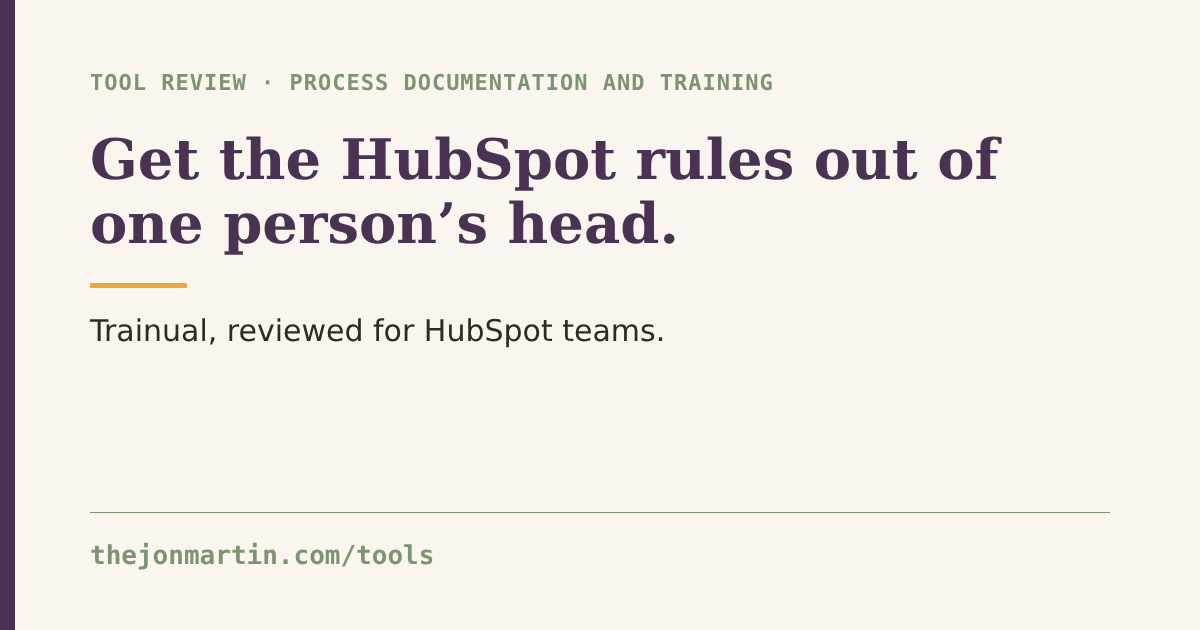
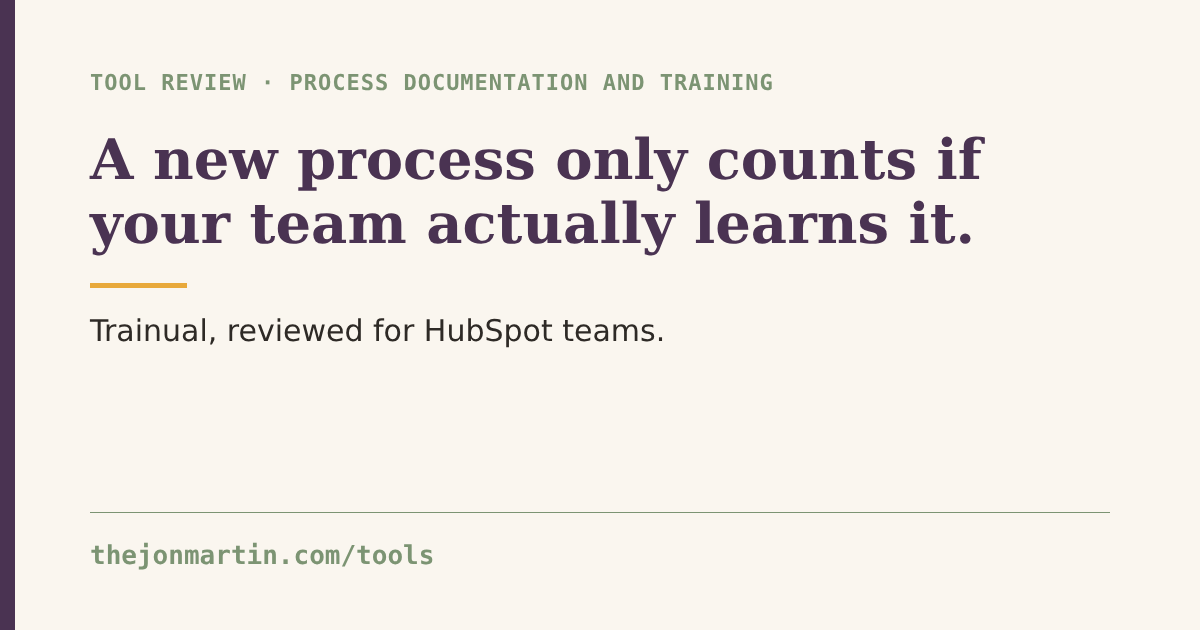
Trainual page: reframe around team training and change management
The page was framed as a HubSpot process-docs tool. Reframed around
assigning, testing and tracking training for process changes. Zapier
kept as a one-line aside. Bumps MODIFIED, regenerates OG image, updates
llms.txt.

Claude-Session: https://claude.ai/code/session_01NbDwc6VAG9tt4Eb5TYa1M6

Changed region(s): [[0.0617, 0.2111, 0.8325, 0.4222]]

diff --git a/src/lib/tools.ts b/src/lib/tools.ts
@@ -43,7 +43,7 @@ export interface Tool {
 export const CHECKED = 'Oct 13, 2026';
 export const PUBLISHED = '2026-10-14';
 /** Date the pages were last edited (CHECKED is when vendor facts were verified). Update when you change a page. */
-export const MODIFIED = '2026-10-14';
+export const MODIFIED = '2026-10-15';
 
 export const tools: Tool[] = [
 	{
@@ -342,29 +342,29 @@ export const tools: Tool[] = [
 		slug: 'trainual',
 		related: ['gamma', 'capsule-and-transpond'],
 		name: 'Trainual',
-		title: 'Trainual for HubSpot Process Docs — Jon Martin',
-		seoTitle: 'Trainual for HubSpot Teams: Document How You Use HubSpot',
+		title: 'Trainual for Team Training and Change Management — Jon Martin',
+		seoTitle: 'Trainual: Train Your Team and Manage Change',
 		description:
-			"Trainual isn't a HubSpot tool. It's where you write down lifecycle rules, deal stage criteria, and property ownership. What it does and how Zapier connects it.",
-		h1: 'Get the HubSpot rules out of one person’s head.',
+			'Trainual turns SOPs into assigned training with tests and completion tracking. How I use it to roll out process changes so they stick, and where it falls short.',
+		h1: 'A new process only counts if your team actually learns it.',
 		dek: [
-			"A lot of HubSpot portals share the same gap: the process lives in someone's head. Lifecycle stage rules. Deal stage exit criteria. Who's allowed to create properties.",
-			"Trainual isn't a HubSpot tool. It's where you write that stuff down so it stops living in one person's head.",
+			"Most process changes fail the same way. Someone announces it, someone posts a doc, and three weeks later half the team is still doing it the old way.",
+			"Trainual is where you write the process down, assign it to the right people, and see who has actually learned it.",
 		],
 		category: 'Process documentation and training',
 		facts: [
 			{ label: 'Category', value: 'SOPs and training' },
-			{ label: 'Native HubSpot integration', value: 'None confirmed', flag: true },
-			{ label: 'Connects through', value: 'Zapier' },
-			{ label: 'Fit', value: 'Indirect' },
+			{ label: 'Best for', value: 'Onboarding and change rollouts' },
+			{ label: 'Core idea', value: 'Assign, test, track' },
+			{ label: 'HubSpot needed', value: 'No' },
 		],
 		sections: [
 			{
 				label: "Who it's for",
 				blocks: [
-					{ type: 'p', html: 'Operations and RevOps leaders at growing companies who keep answering the same process questions over and over.' },
-					{ type: 'p', html: 'Sales managers onboarding new reps who need "how we use HubSpot here" documented and assigned.' },
-					{ type: 'p', html: "Fit is indirect. You won't buy Trainual for the HubSpot integration. You'd buy it to document how your team uses HubSpot." },
+					{ type: 'p', html: 'Operations leaders and managers at growing companies who keep answering the same process questions over and over.' },
+					{ type: 'p', html: 'Anyone rolling out a change (a new sales process, a new tool, a new policy) who needs to know it landed, not just that it was announced.' },
+					{ type: 'p', html: "Teams of any kind. This isn't a HubSpot tool, and it doesn't need to be one." },
 				],
 			},
 			{
@@ -388,40 +388,32 @@ export const tools: Tool[] = [
 				],
 			},
 			{
-				label: 'How it fits a HubSpot stack',
+				label: 'How it helps with change',
 				blocks: [
-					{ type: 'p', html: "I didn't find a native HubSpot integration on Trainual's site or a HubSpot Marketplace listing." },
-					{ type: 'p', html: "What is confirmed is a Zapier connection. Zapier's HubSpot + Trainual page lists:" },
-					{
-						type: 'ul',
-						items: [
-							'<strong>Trainual triggers:</strong> Subject Completed, Topic Completed, All Subjects Completed, Test Passed, Test Failed.',
-							'<strong>Trainual actions:</strong> Invite New User, Assign Roles, Assign Subjects, Archive and Unarchive User, and more.',
-						],
-					},
-					{ type: 'p', html: "Paired with HubSpot's Zapier triggers and actions, that opens up a few useful patterns:" },
+					{ type: 'p', html: 'Change management is mostly three questions. Does everyone know what changed? Do they understand it? Are they doing it?' },
 					{
 						type: 'ol',
 						items: [
-							'A rep passes the "HubSpot deal stages" test → Zapier updates a HubSpot record or adds a contact to a workflow.',
-							'A role changes → Zapier assigns that role\'s Trainual subjects.',
-							'Someone leaves → Zapier archives their Trainual user.',
+							'<strong>Know:</strong> assign the new process to the roles it affects, so it lands in front of the right people instead of a channel they may not read.',
+							'<strong>Understand:</strong> add a short test. A wrong answer shows you what the rollout failed to explain.',
+							"<strong>Do:</strong> completion tracking shows who hasn't finished. That's your follow-up list.",
 						],
 					},
-					{ type: 'p', html: 'These are Zapier builds, not one-click features. Someone has to own them.' },
+					{ type: 'p', html: 'It also helps after the rollout. Version history and stale-content reminders keep the written process matching what the team really does.' },
+					{ type: 'p', html: "Trainual can't make people follow a process. It makes it obvious who hasn't learned it yet, which is the part managers usually guess at." },
 				],
 			},
 		],
 		pros: [
-			'Gets process out of people\'s heads and into something you can assign and track.',
-			'Tests and completion tracking give you proof someone read the rules, not just a shared doc link.',
+			'Moves process out of people\'s heads and into something you can assign and track.',
+			'Tests and completion tracking give you proof someone learned the change, not just a shared doc link.',
+			'Role-based paths mean new hires and changed roles get the right material without a manual checklist.',
 			'Stale-content reminders help with the biggest documentation problem: it goes out of date.',
-			'Zapier triggers make it possible to tie training to HubSpot events.',
 		],
 		cons: [
-			'No native HubSpot integration that I could confirm. Zapier only.',
 			"It's another tool to maintain. If nobody owns the content, it becomes a graveyard of old SOPs.",
 			'Broad scope. Training, goals, meetings, KPIs: you may only need one piece.',
+			"Tracking shows completion, not behavior. You still need a manager checking the work.",
 		],
 		after: [
 			{
@@ -430,20 +422,22 @@ export const tools: Tool[] = [
 					{
 						type: 'steps',
 						items: [
-							'Document your lifecycle stage definitions',
-							'Document deal stage entry and exit criteria',
-							'Document who can create properties and why',
-							'Assign all three to every new HubSpot user',
+							'Pick one change you are about to roll out',
+							'Write it as a short subject: what changed, why, what to do now',
+							'Add a three to five question test',
+							'Assign it to the affected roles and set a due date',
+							'Follow up with whoever is still open after the deadline',
 						],
 					},
+					{ type: 'p', html: 'Trainual also connects to other tools through Zapier, if you later want training events to trigger something. Start without it.' },
 				],
 			},
 		],
-		closing: "A process that only one person knows isn't a process. It's a dependency.",
+		closing: "A change nobody can prove they learned isn't a rollout. It's an announcement.",
 		cta: { label: 'Try Trainual', href: 'https://start.trainual.com/7kqqclprayt4' },
 		sources: [
 			{ text: 'Trainual homepage', href: 'https://trainual.com/' },
-			{ text: 'Zapier, HubSpot + Trainual integrations', href: 'https://zapier.com/apps/hubspot/integrations/trainual' },
+			{ text: 'Zapier, Trainual integrations', href: 'https://zapier.com/apps/trainual/integrations' },
 		],
 	},
 
